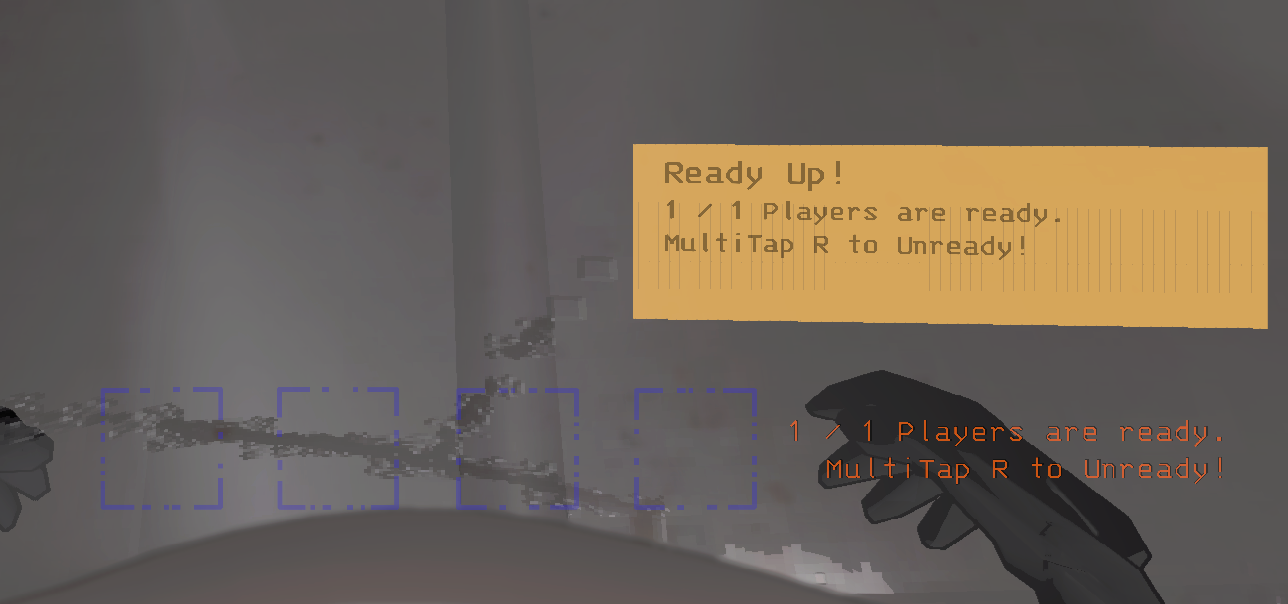
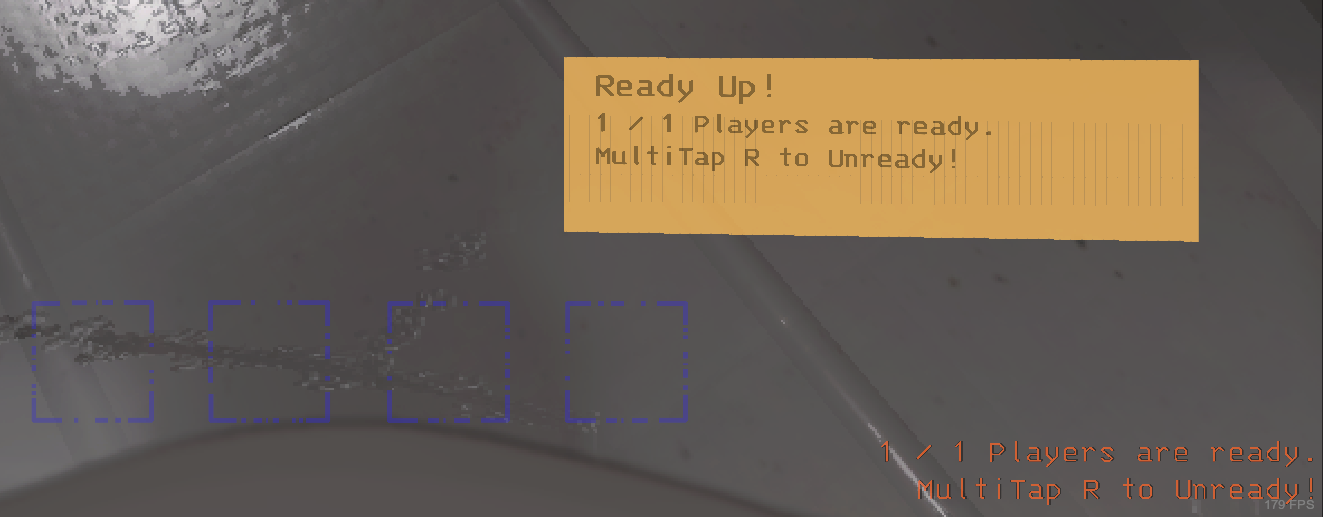
Update packaging, add preset placements for ready status text

diff --git a/Patches/HUDPatches.cs b/Patches/HUDPatches.cs
@@ -1,4 +1,5 @@
 using HarmonyLib;
+using ReadyCompany.Config;
 using TMPro;
 using UnityEngine;
 using UnityEngine.UI;
@@ -9,6 +10,8 @@ namespace ReadyCompany.Patches
     internal class HUDPatches
     {
         internal static TextMeshProUGUI? ReadyStatusTextMesh;
+
+        private static RectTransform? _parentTransform;
 
         [HarmonyPatch(nameof(HUDManager.Awake))]
         [HarmonyPostfix]
@@ -25,11 +28,12 @@ namespace ReadyCompany.Patches
                 canvasGroup = statusParent.GetComponent<CanvasGroup>(),
                 targetAlpha = 1f
             });
-            var parentTransform = statusParent.GetComponent<RectTransform>();
-            parentTransform.anchorMax = parentTransform.anchorMin = parentTransform.pivot = new(1, 0);
-            parentTransform.sizeDelta = new Vector2(208f, 20f);
-            parentTransform.localScale = Vector3.one;
-            parentTransform.anchoredPosition3D = new Vector3(-75f, 55f, -0.075f);
+            _parentTransform = statusParent.GetComponent<RectTransform>();
+            _parentTransform.anchorMax = _parentTransform.anchorMin = _parentTransform.pivot = new(0.5f, 0);
+            _parentTransform.sizeDelta = new Vector2(208f, 38f);
+            _parentTransform.localScale = Vector3.one;
+            //_parentTransform.anchoredPosition3D = new Vector3(-75f, 55f, -0.075f);
+            _parentTransform.anchoredPosition3D = new Vector3(0f, 115f, -0.075f);
             
             ReadyStatusTextMesh = statusParent.GetComponent<TextMeshProUGUI>();
             ReadyStatusTextMesh.font = __instance.controlTipLines[0].font;
@@ -37,7 +41,8 @@ namespace ReadyCompany.Patches
             ReadyStatusTextMesh.enableWordWrapping = false;
             //ReadyStatusTextMesh.color = new Color(0, 135, 32);
             ReadyStatusTextMesh.color = HUDManager.Instance.weightCounter.color;
-            ReadyStatusTextMesh.alignment = TextAlignmentOptions.BottomRight;
+            //ReadyStatusTextMesh.alignment = TextAlignmentOptions.BottomRight;
+            ReadyStatusTextMesh.alignment = TextAlignmentOptions.Top;
             ReadyStatusTextMesh.overflowMode = 0;
             ReadyStatusTextMesh.enabled = true;
             ReadyStatusTextMesh.text = "Test Test 123123";
@@ -46,14 +51,16 @@ namespace ReadyCompany.Patches
             var interactionBarTransform = interactionBar.GetComponent<RectTransform>();
             interactionBarTransform.anchorMax = interactionBarTransform.pivot = new(1, 0);
             interactionBarTransform.anchorMin = Vector2.zero;
-            interactionBarTransform.anchoredPosition3D = new(0, -5, -0.075f);
+            interactionBarTransform.anchoredPosition3D = new(-2f, 0, 0);
             interactionBarTransform.sizeDelta = new Vector2(0f, 5f);
             var interactionBarImage = interactionBar.GetComponent<Image>();
             interactionBarImage.fillMethod = Image.FillMethod.Horizontal;
             interactionBarImage.type = Image.Type.Filled;
             interactionBarImage.sprite = CreateSpriteFromTexture(Texture2D.whiteTexture);
             interactionBarImage.color = Color.white;
-            interactionBar.transform.SetParent(parentTransform.transform, false);
+            interactionBar.transform.SetParent(_parentTransform.transform, false);
+            
+            UpdatePlacementBasedOnConfig(ReadyCompany.Config.StatusPlacement.Value);
         }
 
         private static Sprite CreateSpriteFromTexture(Texture2D texture2D)
@@ -69,6 +76,52 @@ namespace ReadyCompany.Patches
             {
                 ReadyStatusTextMesh.text = ReadyHandler.GetBriefStatusDisplay(status);
                 ReadyStatusTextMesh.gameObject.SetActive(StartOfRound.Instance.inShipPhase);
+            }
+        }
+
+        public static void UpdatePlacementBasedOnConfig(StatusPlacement placement)
+        {
+            if (ReadyStatusTextMesh == null || _parentTransform == null)
+                return;
+            
+            switch (placement)
+            {
+                default:
+                case StatusPlacement.AboveHotbar:
+                    _parentTransform.anchorMax = _parentTransform.anchorMin = _parentTransform.pivot = new(0.5f, 0);
+                    _parentTransform.anchoredPosition3D = new Vector3(0f, 110f, -0.075f);
+                    ReadyStatusTextMesh.alignment = TextAlignmentOptions.Top;
+                    break;
+                case StatusPlacement.BelowHotbar:
+                    _parentTransform.anchorMax = _parentTransform.anchorMin = _parentTransform.pivot = new(0.5f, 0);
+                    _parentTransform.anchoredPosition3D = new Vector3(0f, 0f, -0.075f);
+                    ReadyStatusTextMesh.alignment = TextAlignmentOptions.Top;
+                    break;
+                case StatusPlacement.RightHotbar:
+                    _parentTransform.anchorMax = _parentTransform.anchorMin = _parentTransform.pivot = new(1f, 0);
+                    _parentTransform.anchoredPosition3D = new Vector3(-75f, 55f, -0.075f);
+                    ReadyStatusTextMesh.alignment = TextAlignmentOptions.TopLeft;
+                    break;
+                case StatusPlacement.LeftHotbar:
+                    _parentTransform.anchorMax = _parentTransform.anchorMin = _parentTransform.pivot = new(0f, 0);
+                    _parentTransform.anchoredPosition3D = new Vector3(75f, 55f, -0.075f);
+                    ReadyStatusTextMesh.alignment = TextAlignmentOptions.TopRight;
+                    break;
+                case StatusPlacement.TopScreen:
+                    _parentTransform.anchorMax = _parentTransform.anchorMin = _parentTransform.pivot = new(0.5f, 1f);
+                    _parentTransform.anchoredPosition3D = new Vector3(0f, 0f, -0.075f);
+                    ReadyStatusTextMesh.alignment = TextAlignmentOptions.Top;
+                    break;
+                case StatusPlacement.BottomRightScreen:
+                    _parentTransform.anchorMax = _parentTransform.anchorMin = _parentTransform.pivot = new(1f, 0f);
+                    _parentTransform.anchoredPosition3D = new Vector3(0f, 0f, -0.075f);
+                    ReadyStatusTextMesh.alignment = TextAlignmentOptions.TopRight;
+                    break;
+                case StatusPlacement.BottomLeftScreen:
+                    _parentTransform.anchorMax = _parentTransform.anchorMin = _parentTransform.pivot = new(0f, 0f);
+                    _parentTransform.anchoredPosition3D = new Vector3(0f, 0f, -0.075f);
+                    ReadyStatusTextMesh.alignment = TextAlignmentOptions.TopLeft;
+                    break;
             }
         }
     }

diff --git a/Config/ReadyCompanyConfig.cs b/Config/ReadyCompanyConfig.cs
@@ -6,6 +6,7 @@ using BepInEx;
 using BepInEx.Configuration;
 using CSync.Extensions;
 using CSync.Lib;
+using ReadyCompany.Patches;
 using ReadyCompany.Util;
 using UnityEngine;
 using UnityEngine.InputSystem;
@@ -18,6 +19,7 @@ namespace ReadyCompany.Config
         [field: SyncedEntryField] public SyncedEntry<bool> AutoStartWhenReady { get; private set; }
         [field: SyncedEntryField] public SyncedEntry<int> PercentageForReady { get; private set; }
 
+        public ConfigEntry<StatusPlacement> StatusPlacement { get; private set; }
         public ConfigEntry<bool> ShowPopup { get; private set; }
         public ConfigEntry<bool> PlaySound { get; private set; }
         public ConfigEntry<int> SoundVolume { get; private set; }
@@ -33,21 +35,23 @@ namespace ReadyCompany.Config
         internal List<AudioClip> CustomLobbyReadySounds { get; private set; } = [];
 
         internal const string FEATURES_STRING = "Features";
-        internal const string TUNING_STRING = "Tuning";
+        internal const string CUSTOMIZATION_STRING = "Customization";
         internal const string INTERACTION_STRING = "Interaction";
 
         public ReadyCompanyConfig(ConfigFile cfg) : base(MyPluginInfo.PLUGIN_GUID)
         {
             RequireReadyToStart = cfg.BindSyncedEntry(FEATURES_STRING, nameof(RequireReadyToStart), false, "Require the lobby to be Ready to pull the ship lever.");
             AutoStartWhenReady = cfg.BindSyncedEntry(FEATURES_STRING, nameof(AutoStartWhenReady), false, "Automatically pull the ship lever when the lobby is Ready.");
-            PercentageForReady = cfg.BindSyncedEntry(TUNING_STRING, nameof(PercentageForReady), 100, "What percentage of ready players is needed for the lobby to be considered \"Ready\".");
+            PercentageForReady = cfg.BindSyncedEntry(FEATURES_STRING, nameof(PercentageForReady), 100, "What percentage of ready players is needed for the lobby to be considered \"Ready\".");
             RequireReadyToStart.Changed += (_, _) => ReadyHandler.UpdateReadyMap();
             AutoStartWhenReady.Changed += (_, _) => ReadyHandler.UpdateReadyMap();
             RequireReadyToStart.Changed += (_, _) => ReadyHandler.UpdateReadyMap();
-            
-            ShowPopup = cfg.Bind(TUNING_STRING, nameof(ShowPopup), true, "Whether or not to show popup when the ready status changes.");
-            PlaySound = cfg.Bind(TUNING_STRING, nameof(PlaySound), true, "Whether or not to play a sound when the ready status changes.");
-            SoundVolume = cfg.Bind(TUNING_STRING, nameof(SoundVolume), 100, "The volume of the popup sound.");
+
+            StatusPlacement = cfg.Bind(CUSTOMIZATION_STRING, nameof(StatusPlacement), Config.StatusPlacement.AboveHotbar, "Where to place the text showing the ready status.");
+            ShowPopup = cfg.Bind(CUSTOMIZATION_STRING, nameof(ShowPopup), false, "Whether or not to show a popup when the ready status changes.");
+            PlaySound = cfg.Bind(CUSTOMIZATION_STRING, nameof(PlaySound), true, "Whether or not to play a sound when the ready status changes.");
+            SoundVolume = cfg.Bind(CUSTOMIZATION_STRING, nameof(SoundVolume), 100, "The volume of the popup sound.");
+            StatusPlacement.SettingChanged += (_, _) => HUDPatches.UpdatePlacementBasedOnConfig(StatusPlacement.Value);
 
             ReadyBarColor = cfg.Bind(INTERACTION_STRING, nameof(ReadyBarColor), Color.white, "What color the bar should be when holding the bind.");
             UnreadyBarColor = cfg.Bind(INTERACTION_STRING, nameof(UnreadyBarColor), Color.red, "What color the bar should be when holding the bind.");

diff --git a/ReadyCompany.cs b/ReadyCompany.cs
@@ -40,6 +40,8 @@ public class ReadyCompany : BaseUnityPlugin
             Max = 100
         });
         LethalConfigManager.AddConfigItem(percentageForReadySlider);
+        var statusPlacementDropdown = new EnumDropDownConfigItem<StatusPlacement>(Config.StatusPlacement, false);
+        LethalConfigManager.AddConfigItem(statusPlacementDropdown);
         var showPopupCheckbox = new BoolCheckBoxConfigItem(Config.ShowPopup, false);
         LethalConfigManager.AddConfigItem(showPopupCheckbox);
         var playSoundCheckbox = new BoolCheckBoxConfigItem(Config.PlaySound, false);
@@ -51,7 +53,7 @@ public class ReadyCompany : BaseUnityPlugin
             Max = 100
         });
         LethalConfigManager.AddConfigItem(soundVolumeSlider);
-        var reloadCustomSoundsButton = new GenericButtonConfigItem(ReadyCompanyConfig.TUNING_STRING,
+        var reloadCustomSoundsButton = new GenericButtonConfigItem(ReadyCompanyConfig.CUSTOMIZATION_STRING,
             "Reload Custom Sounds", "Reloads any custom sounds from disk.", "Reload", () => Config.LoadCustomSounds());
         LethalConfigManager.AddConfigItem(reloadCustomSoundsButton);
         var readyInteractionPreset = new EnumDropDownConfigItem<InteractionPreset>(Config.ReadyInteractionPreset, false);

diff --git a/Config/StatusPlacement.cs b/Config/StatusPlacement.cs
@@ -1,0 +1,13 @@
+namespace ReadyCompany.Config
+{
+    public enum StatusPlacement
+    {
+        AboveHotbar,
+        BelowHotbar,
+        RightHotbar,
+        LeftHotbar,
+        TopScreen,
+        BottomRightScreen,
+        BottomLeftScreen
+    }
+}

diff --git a/README.md b/README.md
@@ -31,7 +31,6 @@ You can also add separate sounds for specifically when the lobby is ready by pla
 
 ## Planned (Maybe) Features
 
-- Config option to change the binding interactions that is more user friendly
 - Option to run a ready check at the Company
 - Standby option: "i'm AFK but you can start without me"
 - Auto ready under certain user-specified conditions

diff --git a/Package/CHANGELOG.md b/Package/CHANGELOG.md
@@ -1,0 +1,10 @@
+# Changelog
+
+## Version 0.2.7 (1.0.RC2)
+
+Considered feature complete; New updates will likely slow down once 1.0 is out.
+
+- Added presets for different interaction methods with the ready and unready binds
+- The position of the ready status text is now configurable
+- Added changelog to package
+
